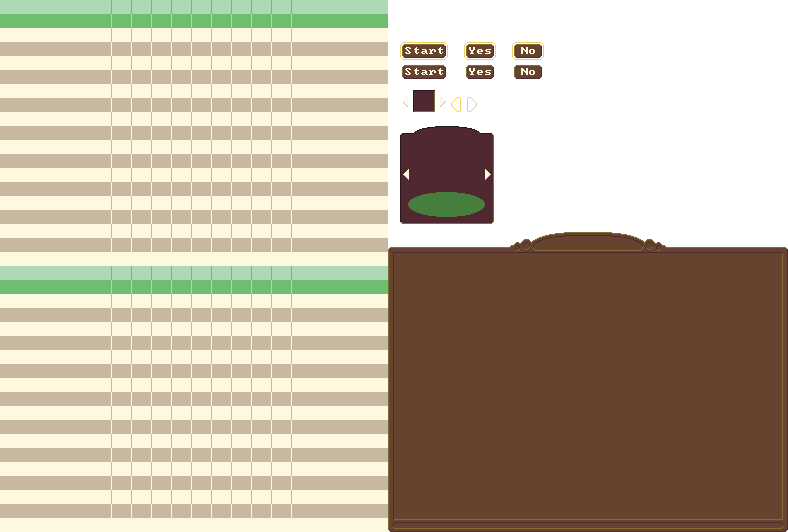
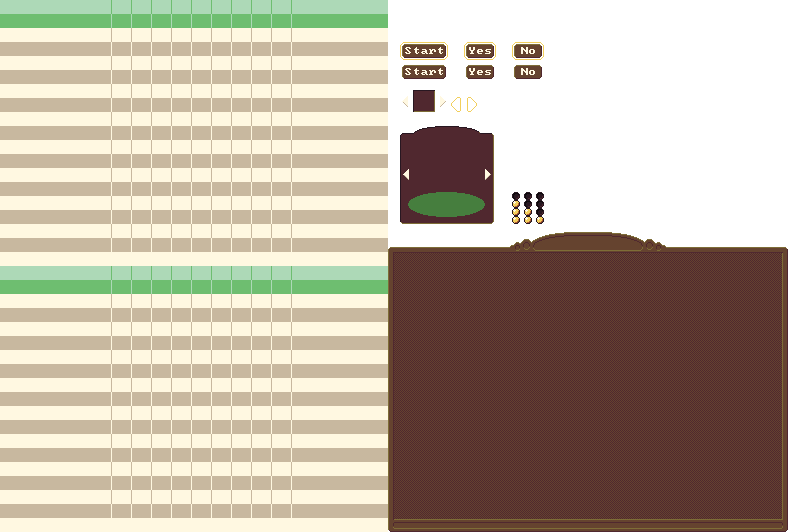
fix audio fade in add raising animation messages to driving range update assets

Changed region(s): [[0.4873, 0.4812, 1.0, 0.9925], [0.6396, 0.3609, 0.7005, 0.4211]]

diff --git a/samples/golf/src/golf/DrivingStateUI.cpp b/samples/golf/src/golf/DrivingStateUI.cpp
@@ -46,7 +46,8 @@ source distribution.
 
 namespace
 {
-    constexpr float SummaryOffset = 34.f;
+    constexpr float SummaryOffset = 70.f;
+    constexpr float SummaryHeight = 246.f;
 
     struct MenuID final
     {
@@ -646,7 +647,7 @@ void DrivingState::createSummary()
 
     //info text
     auto infoEnt = m_uiScene.createEntity();
-    infoEnt.addComponent<cro::Transform>().setPosition({ SummaryOffset, 260.f, 0.02f });
+    infoEnt.addComponent<cro::Transform>().setPosition({ SummaryOffset, SummaryHeight, 0.02f });
     infoEnt.addComponent<cro::Drawable2D>();
     infoEnt.addComponent<cro::Text>(smallFont).setString("Sample Text\n1\n1\n1\n1\n1\n1\n1\n1");
     infoEnt.getComponent<cro::Text>().setCharacterSize(InfoTextSize);
@@ -655,7 +656,7 @@ void DrivingState::createSummary()
     m_summaryScreen.text01 = infoEnt;
 
     infoEnt = m_uiScene.createEntity();
-    infoEnt.addComponent<cro::Transform>().setPosition({ (bounds.width / 2.f) + SummaryOffset, 260.f, 0.02f });
+    infoEnt.addComponent<cro::Transform>().setPosition({ (bounds.width / 2.f) + SummaryOffset, SummaryHeight, 0.02f });
     infoEnt.addComponent<cro::Drawable2D>();
     infoEnt.addComponent<cro::Text>(smallFont).setString("Sample Text\n1\n1\n1\n1\n1\n1\n1\n1");
     infoEnt.getComponent<cro::Text>().setCharacterSize(InfoTextSize);
@@ -664,7 +665,7 @@ void DrivingState::createSummary()
     m_summaryScreen.text02 = infoEnt;
 
     auto summaryEnt = m_uiScene.createEntity();
-    summaryEnt.addComponent<cro::Transform>().setPosition({ bounds.width / 2.f, 98.f, 0.02f });
+    summaryEnt.addComponent<cro::Transform>().setPosition({ bounds.width / 2.f, 120.f, 0.02f });
     summaryEnt.addComponent<cro::Drawable2D>();
     summaryEnt.addComponent<cro::Text>(largeFont).setCharacterSize(UITextSize);
     summaryEnt.getComponent<cro::Text>().setFillColour(TextNormalColour);
@@ -896,7 +897,7 @@ void DrivingState::showMessage(float range)
     entity.getComponent<cro::Transform>().addChild(textEnt2.getComponent<cro::Transform>());
 
     std::stringstream s2;
-    s2.precision(2);
+    s2.precision(3);
     s2 << "Accuracy: " << score << "%";
 
     auto textEnt3 = m_uiScene.createEntity();
@@ -981,8 +982,8 @@ void DrivingState::showMessage(float range)
                         float score = director->getScore(i);
 
                         std::stringstream s;
-                        s.precision(2);
-                        s << "Turn " << i + 1 << ": " << score << "%\n";
+                        s.precision(3);
+                        s << "Turn " << i + 1 << ":      " << score << "%\n";
                         summary += s.str();
 
                         totalScore += score;
@@ -998,8 +999,8 @@ void DrivingState::showMessage(float range)
                             float score = director->getScore(i);
 
                             std::stringstream s;
-                            s.precision(2);
-                            s << "Turn " << i + 1 << ": " << score << "%\n";
+                            s.precision(3);
+                            s << "Turn " << i + 1 << ":      " << score << "%\n";
                             summary += s.str();
 
                             totalScore += score;
@@ -1025,7 +1026,7 @@ void DrivingState::showMessage(float range)
 
                     totalScore /= scoreCount;
                     std::stringstream s;
-                    s.precision(2);
+                    s.precision(3);
                     s << "\nTotal: " << totalScore << "% - ";
 
                     if (totalScore < BadScore)
@@ -1057,5 +1058,52 @@ void DrivingState::showMessage(float range)
             }
             break;
         }
+    };
+}
+
+void DrivingState::floatingMessage(const std::string& msg)
+{
+    auto& font = m_sharedData.sharedResources->fonts.get(FontID::Info);
+
+    glm::vec2 size = glm::vec2(GolfGame::getActiveTarget()->getSize());
+    glm::vec3 position((size.x / 2.f), (UIBarHeight + 14.f) * m_viewScale.y, 0.2f);
+
+    auto entity = m_uiScene.createEntity();
+    entity.addComponent<cro::Transform>().setPosition(position);
+    entity.getComponent<cro::Transform>().setScale(m_viewScale);
+    entity.addComponent<cro::Drawable2D>();
+    entity.addComponent<cro::Text>(font).setString(msg);
+    entity.getComponent<cro::Text>().setFillColour(TextNormalColour);
+    entity.getComponent<cro::Text>().setCharacterSize(InfoTextSize);
+    centreText(entity);
+
+    entity.addComponent<cro::Callback>().active = true;
+    entity.getComponent<cro::Callback>().setUserData<float>(0.f);
+    entity.getComponent<cro::Callback>().function =
+        [&, position](cro::Entity e, float dt)
+    {
+        static constexpr float MaxMove = 40.f;
+        static constexpr float MaxTime = 3.f;
+
+        auto& currTime = e.getComponent<cro::Callback>().getUserData<float>();
+        currTime = std::min(MaxTime, currTime + dt);
+
+        float progress = currTime / MaxTime;
+        float move = std::floor(cro::Util::Easing::easeOutQuint(progress) * MaxMove);
+
+        auto pos = position;
+        pos.y += move;
+        e.getComponent<cro::Transform>().setPosition(pos);
+
+        if (currTime == MaxTime)
+        {
+            e.getComponent<cro::Callback>().active = false;
+            m_uiScene.destroyEntity(e);
+        }
+
+        float alpha = cro::Util::Easing::easeInCubic(progress);
+        auto c = TextNormalColour;
+        c.setAlpha(1.f - alpha);
+        e.getComponent<cro::Text>().setFillColour(c);
     };
 }

diff --git a/samples/golf/src/golf/DrivingState.cpp b/samples/golf/src/golf/DrivingState.cpp
@@ -285,6 +285,53 @@ void DrivingState::handleMessage(const cro::Message& msg)
     switch (msg.id)
     {
     default: break;
+    case cro::Message::SpriteAnimationMessage:
+    {
+        const auto& data = msg.getData<cro::Message::SpriteAnimationEvent>();
+        if (data.userType == 0)
+        {
+            //relay this message with the info needed for particle/sound effects
+            auto* msg2 = cro::App::getInstance().getMessageBus().post<GolfEvent>(MessageID::GolfMessage);
+            msg2->type = GolfEvent::ClubSwing;
+            msg2->position = PlayerPosition;
+            msg2->terrain = TerrainID::Fairway;
+            msg2->club = static_cast<std::uint8_t>(m_inputParser.getClub());
+
+            cro::GameController::rumbleStart(m_sharedData.inputBinding.controllerID, 50000, 35000, 200);
+
+            //check if we hooked/sliced
+            auto hook = m_inputParser.getHook();
+            if (hook < -0.15f)
+            {
+                auto* msg2 = cro::App::getInstance().getMessageBus().post<GolfEvent>(MessageID::GolfMessage);
+                msg2->type = GolfEvent::HookedBall;
+                floatingMessage("Hook");
+            }
+            else if (hook > 0.15f)
+            {
+                auto* msg2 = cro::App::getInstance().getMessageBus().post<GolfEvent>(MessageID::GolfMessage);
+                msg2->type = GolfEvent::SlicedBall;
+                floatingMessage("Slice");
+            }
+
+            auto power = m_inputParser.getPower();
+            hook *= 20.f;
+            hook = std::round(hook);
+            hook /= 20.f;
+
+            if (power > 0.9f
+                && std::fabs(hook) < 0.05f)
+            {
+                auto* msg2 = cro::App::getInstance().getMessageBus().post<GolfEvent>(MessageID::GolfMessage);
+                msg2->type = GolfEvent::NiceShot;
+            }
+
+
+            //enable the camera following
+            m_gameScene.setSystemActive<CameraFollowSystem>(true);
+        }
+    }
+    break;
     case sv::MessageID::BallMessage:
     {
         const auto& data = msg.getData<BallEvent>();

diff --git a/samples/golf/src/golf/GolfState.cpp b/samples/golf/src/golf/GolfState.cpp
@@ -1764,7 +1764,7 @@ void GolfState::initAudio()
 
         cro::AudioMixer::setPrefadeVolume(cro::Util::Easing::easeOutQuad(progress), MixerChannel::Effects);
 
-        if (progress = 1)
+        if (progress == 1)
         {
             e.getComponent<cro::Callback>().active = false;
             m_gameScene.destroyEntity(e);

diff --git a/samples/golf/src/golf/DrivingState.hpp b/samples/golf/src/golf/DrivingState.hpp
@@ -144,6 +144,7 @@ private:
     void createSummary();
     void updateWindDisplay(glm::vec3);    
     void showMessage(float);
+    void floatingMessage(const std::string&);
 
     //create the summary screen with its own
     //encapsulation just to update the text more easily
